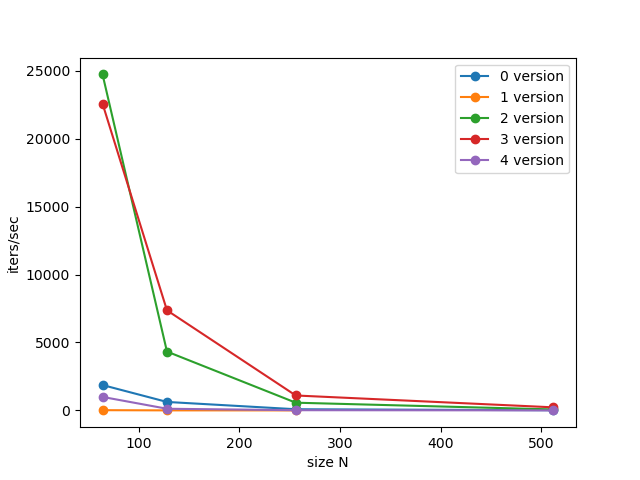
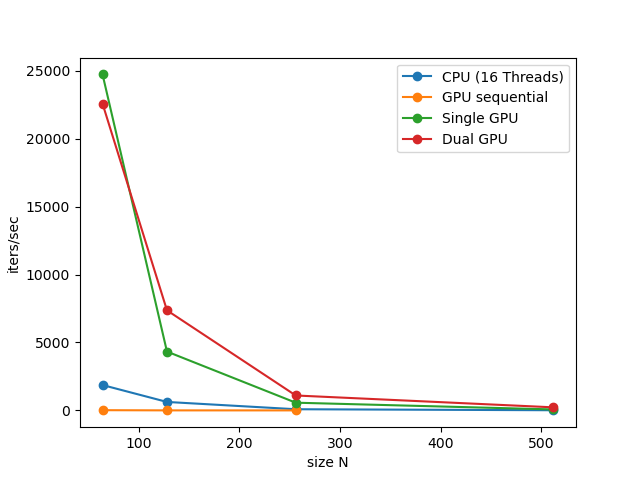
local merge

Changed region(s): [[0.625, 0.125, 0.9062, 0.3438], [0.2188, 0.8438, 0.875, 0.875], [0.1562, 0.8125, 0.2188, 0.8438]]

diff --git a/assignment-3/Poisson3D_gpu/plotter_gen.py b/assignment-3/Poisson3D_gpu/plotter_gen.py
@@ -26,6 +26,7 @@ if not os.path.exists('plots'):
 data.columns = ["size_N", "iterations", "time", "iters_per_second", "version"]
 distinct_sizes_N = data.size_N.unique()
 distinct_versions = data.version.unique()
+version_label = ["CPU (16 Threads)", "GPU sequential", "Single GPU", "Dual GPU"]
 
 def compute_memory(data):
 	memory = (data.size_N**3)*8*data.iterations/1000
@@ -42,6 +43,24 @@ for idx, memory in enumerate(memories):
 	mlups.append(memory*iters[idx]/(8*1000*times_vect[idx]))
 data["mlups"] = mlups
 
+times_cpu_baseline = data[data.version == 0].time.to_numpy()
+# compute speedUp
+def compute_speedup(data):
+	if data.version == 0:
+		speedup = 1.0
+	elif data.size_N == 64:
+		speedup = times_cpu_baseline[0]/data.time
+	elif data.size_N == 128:
+		speedup = times_cpu_baseline[1]/data.time
+	elif data.size_N == 256:
+		speedup = times_cpu_baseline[2]/data.time
+	elif data.size_N == 512:
+		speedup = times_cpu_baseline[3]/data.time
+	return speedup
+
+speedup =data.apply(compute_speedup, axis=1)
+data["speedup"] = speedup.to_numpy()
+
 print(data)
 
 # total time vs matrix size N
@@ -50,7 +69,7 @@ ax = plt.subplot(111)
 for version in distinct_versions:
 	size_n = data[data.version == version].size_N
 	time = data[data.version == version].time
-	ax.plot(size_n, time, label=f'{version} version', marker="o")
+	ax.plot(size_n, time, label=f'{version_label[version]}', marker="o")
 ax.legend()
 plt.xlabel("size N")
 plt.ylabel("time (s)")
@@ -62,7 +81,7 @@ ax = plt.subplot(111)
 for version in distinct_versions:
 	size_n = data[data.version == version].size_N
 	iters_per_second = data[data.version == version].iters_per_second
-	ax.plot(size_n, iters_per_second, label=f'{version} version', marker="o")
+	ax.plot(size_n, iters_per_second, label=f'{version_label[version]}', marker="o")
 ax.legend()
 plt.xlabel("size N")
 plt.ylabel("iters/sec")
@@ -74,7 +93,7 @@ ax = plt.subplot(111)
 for version in distinct_versions:
 	size_n = data[data.version == version].size_N
 	memory = data[data.version == version].memory
-	ax.plot(size_n, memory, label=f'{version} version', marker="o")
+	ax.plot(size_n, memory, label=f'{version_label[version]}', marker="o")
 ax.legend()
 plt.xlabel("size N")
 plt.ylabel("Memory footprint (kBytes)")
@@ -86,7 +105,7 @@ ax = plt.subplot(111)
 for version in distinct_versions:
 	size_n = data[data.version == version].size_N
 	mlups = data[data.version == version].mlups
-	ax.plot(size_n, mlups, label=f'{version} version', marker="o")
+	ax.plot(size_n, mlups, label=f'{version_label[version]}', marker="o")
 ax.legend()
 plt.xlabel("size N")
 plt.ylabel("MLUPS")
@@ -98,7 +117,7 @@ ax = plt.subplot(111)
 for version in distinct_versions:
 	time = data[data.version == version].time
 	memory = data[data.version == version].memory
-	ax.plot(memory, time, label=f'{version} version', marker="o")
+	ax.plot(memory, time, label=f'{version_label[version]}', marker="o")
 ax.legend()
 plt.xlabel("Memory footprint (kBytes)")
 plt.ylabel("time (s)")
@@ -110,7 +129,7 @@ ax = plt.subplot(111)
 for version in distinct_versions:
 	iters_per_second = data[data.version == version].iters_per_second
 	memory = data[data.version == version].memory
-	ax.plot(memory, iters_per_second, label=f'{version} version', marker="o")
+	ax.plot(memory, iters_per_second, label=f'{version_label[version]}', marker="o")
 ax.legend()
 plt.xlabel("Memory footprint (kBytes)")
 plt.ylabel("iters/sec")
@@ -122,11 +141,35 @@ ax = plt.subplot(111)
 for version in distinct_versions:
 	mlups = data[data.version == version].mlups
 	memory = data[data.version == version].memory
-	ax.plot(memory, mlups, label=f'{version} version', marker="o")
+	ax.plot(memory, mlups, label=f'{version_label[version]}', marker="o")
 ax.legend()
 plt.xlabel("Memory footprint (kBytes)")
 plt.ylabel("MLUPS")
 fig.savefig('plots' +'/mlupsVSmemory.png')
+
+# speedup vs size
+fig = plt.figure()
+ax = plt.subplot(111)
+for version in distinct_versions:
+	speedup = data[data.version == version].speedup
+	size_N = data[data.version == version].size_N
+	ax.plot(size_N, speedup, label=f'{version_label[version]}', marker="o")
+ax.legend()
+plt.xlabel("Size N")
+plt.ylabel("SpeedUp")
+fig.savefig('plots' +'/speedupVSsize.png')
+
+# mlups vs memory footprint
+fig = plt.figure()
+ax = plt.subplot(111)
+for version in distinct_versions:
+	speedup = data[data.version == version].speedup
+	memory = data[data.version == version].memory
+	ax.plot(memory, speedup, label=f'{version_label[version]}', marker="o")
+ax.legend()
+plt.xlabel("Memory footprint (kBytes)")
+plt.ylabel("SpeedUp")
+fig.savefig('plots' +'/speedupVSmemory.png')
 
 print("Success!. Images saved at /plots")
 data.to_csv('plots' +'/latex.txt', header=True, index=False, sep='&')
